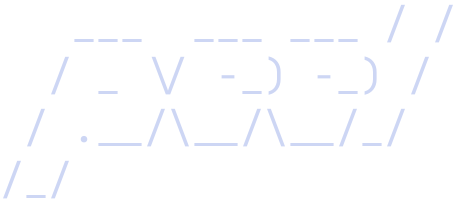
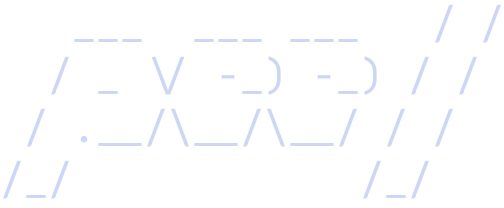
Run the l down to the p's descender
The l now ends in its own /_/ foot on the p's bottom row instead of
joining the second e on the baseline.

diff --git a/src/ui.ts b/src/ui.ts
@@ -471,7 +471,7 @@ export class PeelUI {
     this.brand = new BoxRenderable(ctx, { id: "brand", width: 28, height: 3, flexShrink: 0, flexDirection: "row", gap: 1, paddingLeft: 1 });
     this.logo = new ImageRenderable(ctx, { id: "logo", height: 3, width: 6, source: logoImage(), fit: "fit", flexShrink: 0 });
     this.brand.add(this.logo);
-    this.wordmark = new ImageRenderable(ctx, { id: "wordmark", height: 3, width: 13, source: wordmarkFile, fit: "fit", flexShrink: 0, onLoad: () => this.resizeLayout() });
+    this.wordmark = new ImageRenderable(ctx, { id: "wordmark", height: 3, width: 15, source: wordmarkFile, fit: "fit", flexShrink: 0, onLoad: () => this.resizeLayout() });
     this.brand.add(this.wordmark);
     bar.add(this.brand);
     const searchBox = new BoxRenderable(ctx, { id: "search-panel", ...panel, title: `${icon.search} Search Apple Music  / or Ctrl+F`, titleColor: colour.muted, height: 3, paddingX: 1, flexGrow: 1, flexBasis: 0, minWidth: 0 } as any);
@@ -604,7 +604,7 @@ export class PeelUI {
     // The images keep their proportions in the terminal's cells. Narrow terminals show the apple alone.
     const logoWidth = this.logo.getFittedSize(10, 3).width || 6;
     this.logo.width = logoWidth;
-    this.wordmark.width = this.wordmark.getFittedSize(20, 3).width || 13;
+    this.wordmark.width = this.wordmark.getFittedSize(20, 3).width || 15;
     this.wordmark.visible = !narrow;
     this.brand.width = narrow ? logoWidth + 1 : 28;
     this.sidebarFooter.visible = !narrow;
